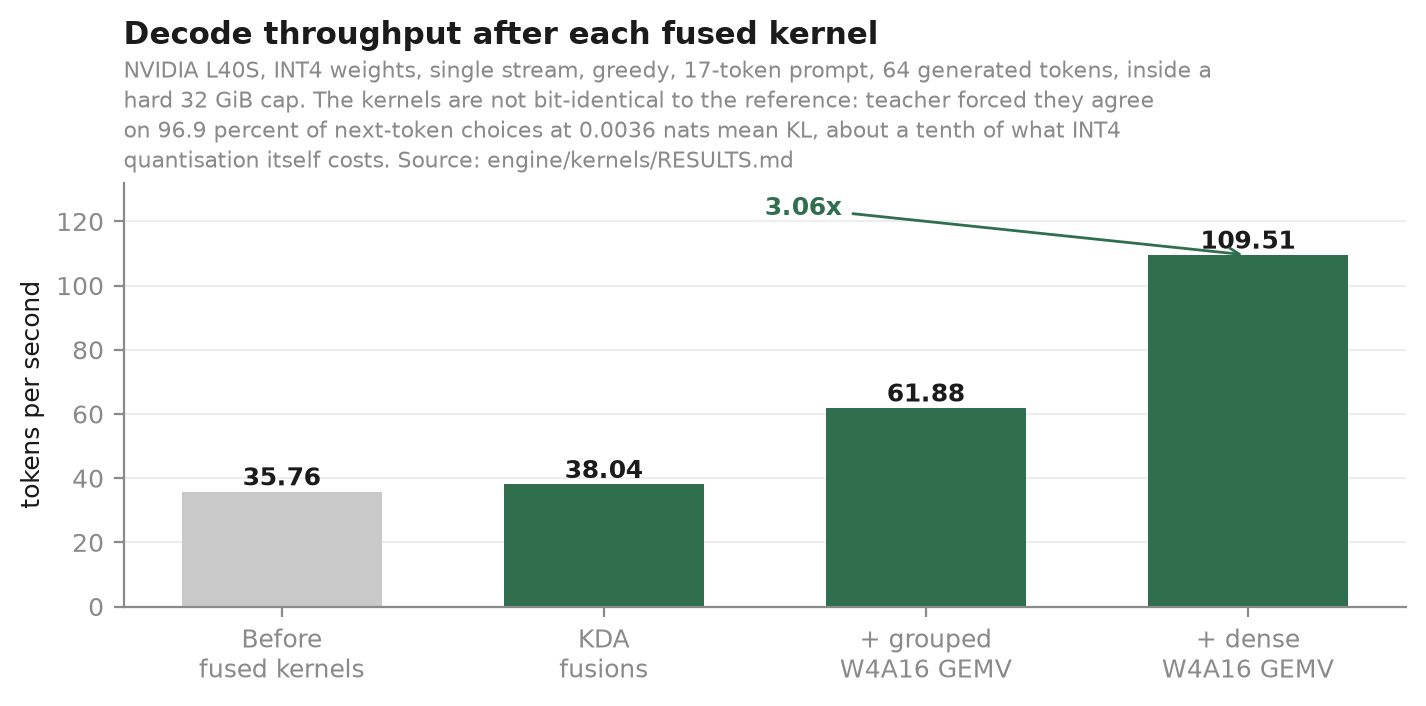
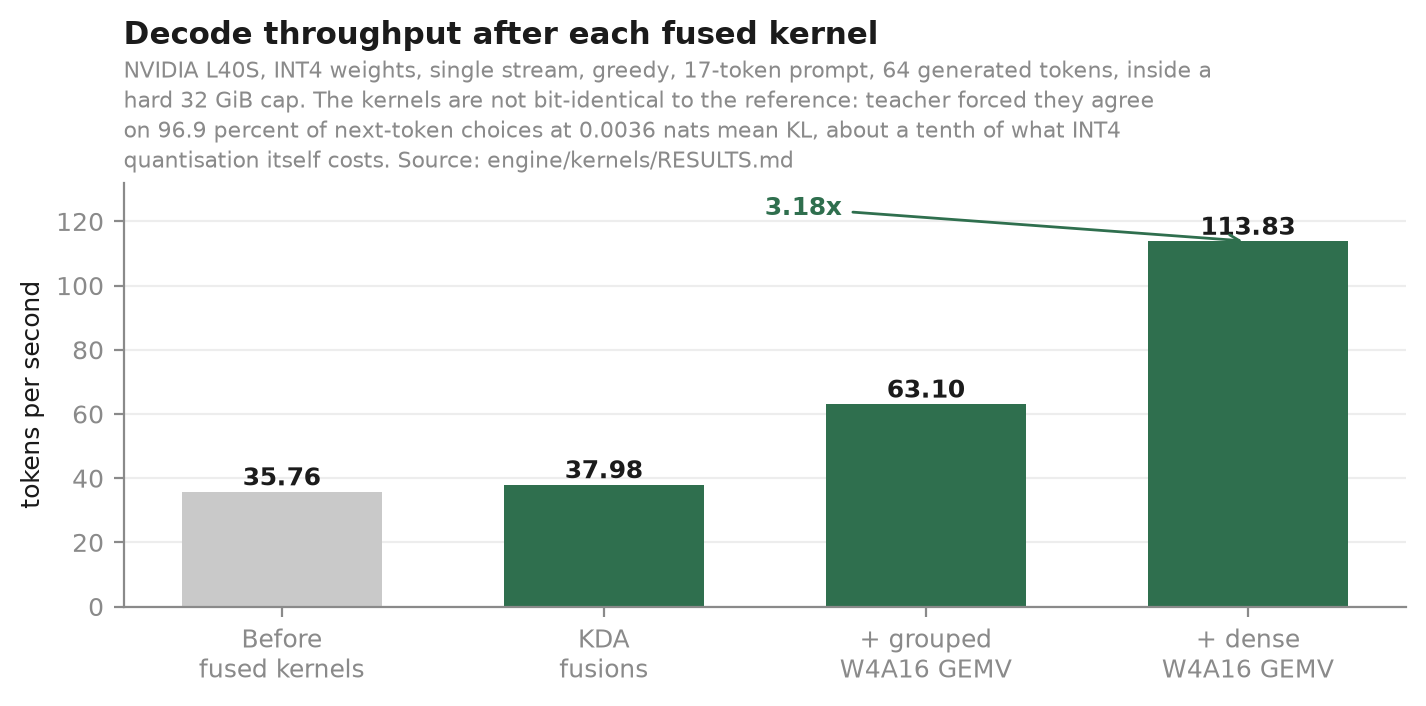
Reach 114 tokens per second and record the config sweep

Changed region(s): [[0.5554, 0.2805, 0.9565, 0.3739], [0.5863, 0.5297, 0.7097, 0.5921], [0.4011, 0.6544, 0.4628, 0.6856]]

diff --git a/scripts/make_figures.py b/scripts/make_figures.py
@@ -77,7 +77,7 @@ def decode_stages() -> None:
         "+ grouped\nW4A16 GEMV",
         "+ dense\nW4A16 GEMV",
     ]
-    values = [35.76, 38.04, 61.88, 109.51]
+    values = [35.76, 37.98, 63.10, 113.83]
     colors = [BASE, ACCENT, ACCENT, ACCENT]
 
     fig, ax = plt.subplots(figsize=(7.2, 3.6))
@@ -96,8 +96,8 @@ def decode_stages() -> None:
     ax.grid(axis="y", color="#ededed", linewidth=0.8)
     ax.set_axisbelow(True)
     ax.annotate(
-        "3.06x",
-        xy=(3, 109.51),
+        "3.18x",
+        xy=(3, 113.83),
         xytext=(1.5, 122.0),
         fontsize=9,
         color=ACCENT,
@@ -306,7 +306,7 @@ def memory_headroom() -> None:
         "The speedup gave memory back",
         "An earlier version of this figure said the opposite, because it was drawn before the "
         "fused kernels existed. The GEMV path allocates no per-call partial buffers, so peak "
-        "reserved memory fell by 1.93 GiB while throughput went up 3.06x. "
+        "reserved memory fell by 1.93 GiB while throughput went up 3.18x. "
         "Source: engine/kernels/RESULTS.md",
     )
     fig.tight_layout()

diff --git a/engine/kernels/RESULTS.md b/engine/kernels/RESULTS.md
@@ -40,30 +40,31 @@ which is 940 to 40 across the twenty KDA layers.
 
 ## End to end
 
-Greedy, one stream, 17-token prompt, 64 generated tokens, three repeats, median
-reported. Timings varied by under 0.05 ms across repeats.
+Greedy, one stream, 17-token prompt, 64 generated tokens, five repeats, median
+reported. Repeat timings varied by under 0.15 ms out of 560, and re-running the
+same configuration in the same container reproduced to 0.02 percent.
 
 | engine | tok/s | ms per token | against original |
 |---|---:|---:|---:|
 | original, before any of this work | 35.76 | 27.96 | 1.00x |
-| KDA fusions only | 38.04 | 26.29 | 1.06x |
-| KDA plus grouped GEMV | 61.88 | 16.16 | 1.73x |
-| **KDA plus grouped and dense GEMV** | **109.51** | **9.13** | **3.06x** |
+| KDA fusions only | 37.98 | 26.33 | 1.06x |
+| KDA plus grouped GEMV | 63.10 | 15.85 | 1.76x |
+| **KDA plus grouped and dense GEMV** | **113.83** | **8.78** | **3.18x** |
 
 Read the middle rows carefully. The KDA fusions are applied whenever the decode
 shape matches and are not switched by the W4A16 variant selector, so they are
 present in every row including the one labelled reference. That is why the
-baseline of the final sweep reads 38.04 rather than 35.76. The 3.06x figure is
+baseline of the final sweep reads 37.98 rather than 35.76. The 3.18x figure is
 against the original engine measured before any kernel in this directory
-existed; the same sweep read against its own baseline gives 2.88x.
+existed; the same sweep read against its own baseline gives 3.00x.
 
 The split by contribution, against the original 35.76:
 
 | change | tok/s after | share of the total gain |
 |---|---:|---:|
-| KDA preparation and recurrence fusion | 38.04 | 3% |
-| grouped W4A16 GEMV | 61.88 | 32% |
-| dense W4A16 GEMV | 109.51 | 65% |
+| KDA preparation and recurrence fusion | 37.98 | 3% |
+| grouped W4A16 GEMV | 63.10 | 32% |
+| dense W4A16 GEMV | 113.83 | 65% |
 
 Peak reserved memory fell from 29.56 GiB to 27.63 GiB, so the 32 GiB budget
 holds with more room than before rather than less.
@@ -89,8 +90,10 @@ produced at each step.
 | kernels | top-1 agreement | max absolute logit difference | mean KL |
 |---|---:|---:|---:|
 | reference against itself | 32/32, 100% | 0.00000 | 0.0 |
-| grouped GEMV | 30/32, 93.8% | 1.56250 | 3.50e-3 nats |
-| grouped and dense GEMV | 31/32, 96.9% | 1.52734 | 3.55e-3 nats |
+| grouped GEMV, earlier config | 30/32, 93.8% | 1.56250 | 3.50e-3 nats |
+| grouped and dense, earlier config | 31/32, 96.9% | 1.52734 | 3.55e-3 nats |
+| **shipped, `n128_k32_s4`** | **31/32, 96.9%** | **1.50000** | **3.62e-3 nats** |
+| the config it replaced | 31/32, 96.9% | 1.78125 | 6.73e-3 nats |
 
 For scale, `engine/accuracy/RESULTS.md` records that the INT4 quantisation
 itself costs 85.16 percent top-1 agreement and 0.0555 nats of mean KL against
@@ -99,6 +102,38 @@ divergence that quantising the model already introduced.
 
 That is the claim this work supports: the fused kernels are a much smaller
 perturbation than the quantisation already applied, not that they are exact.
+
+## Choosing the launch configuration by sweeping the engine
+
+After two tuning decisions won an isolated benchmark and lost in the engine, the
+grouped kernel's configuration was chosen differently: every candidate was
+registered as its own variant and swept inside one decode process, with the
+incumbent measured first and last to expose its own repeatability.
+
+| variant, one container, 5 repeats each | tok/s | output matches incumbent |
+|---|---:|:---:|
+| incumbent, branch on estimated wave count | 109.38 | reference |
+| pinned `n32_k64_s1` | 110.16 | yes |
+| pinned `n64_k64_s1` | 103.67 | yes |
+| pinned `n64_k64_s2` | 112.68 | no |
+| **pinned `n128_k32_s4`** | **113.43** | no |
+| pinned `n32_k128_s1` | 112.97 | no |
+| incumbent again | 109.37 | yes |
+
+The incumbent reproduces to 0.01 percent, so a 3.7 percent gap is real. The
+incumbent branched on an estimate of how many waves the grid would fill, which
+was never tested; one configuration for every shape beats it.
+
+The three fastest change the output, because split-K and a different K block
+change the order of the reduction. That is not disqualifying on its own, since
+none of these kernels is bit-identical to the reference anyway, but it does mean
+the winner needed its own equivalence measurement rather than an assumption.
+That measurement came out in its favour: the same 31 of 32 top-1 choices, with
+mean KL falling from 6.73e-3 to 3.62e-3 and the largest logit difference from
+1.78 to 1.50. It is both faster and closer to the reference.
+
+Confirmed after adopting it as the default: 113.83 tok/s in the ladder above,
+and 114.01 then 114.03 in a separate two-run check.
 
 ## Two fusions that were built, measured, and left switched off
 

diff --git a/README.md b/README.md
@@ -51,10 +51,10 @@ The serve flags above are defined in [`k3/cli.py`](k3/cli.py). See the [full qui
 
 - `k3` added **0.231 ms per request** in a local CPU-only ASGI benchmark that sent the same request directly to a stub backend and through the proxy. The benchmark used no socket or network. The host hardware was not recorded, so this number describes that run rather than a portable latency guarantee.
 - The selective INT4 artifact is **28,803,304,448 bytes**, which is **3.41x smaller** than the **98,245,528,576-byte BF16 source tensor storage**. It was built and verified from the real checkpoint on one NVIDIA H100. See [`engine/quant/QUANTIZATION-RESULTS.md`](engine/quant/QUANTIZATION-RESULTS.md).
-- The engine decodes at **109.51 tokens per second** on one NVIDIA L40S, up from **35.76** before the fused kernels, a **3.06x** gain. The run used one stream, a 17-token prompt, 64 generated tokens, greedy decoding, three repeats, and a hard 32 GiB process cap. Peak reserved memory fell from 29.56 GiB to 27.63 GiB. See [`engine/kernels/RESULTS.md`](engine/kernels/RESULTS.md) for the kernel-by-kernel breakdown and [`engine/klinear/DECODE-PROFILE.md`](engine/klinear/DECODE-PROFILE.md) for the profile that found the bottleneck.
+- The engine decodes at **113.83 tokens per second** on one NVIDIA L40S, up from **35.76** before the fused kernels, a **3.18x** gain. The run used one stream, a 17-token prompt, 64 generated tokens, greedy decoding, five repeats, and a hard 32 GiB process cap. Peak reserved memory fell from 29.56 GiB to 27.63 GiB. See [`engine/kernels/RESULTS.md`](engine/kernels/RESULTS.md) for the kernel-by-kernel breakdown and [`engine/klinear/DECODE-PROFILE.md`](engine/klinear/DECODE-PROFILE.md) for the profile that found the bottleneck.
 - The fused kernels are **not bit-identical** to the reference path. Teacher-forced against the same token sequence they agree on **96.9%** of next-token choices with a mean KL of **0.0036 nats**. For scale, quantising the model to INT4 in the first place costs 85.16% agreement and 0.0555 nats, so the kernels are about a tenth of the divergence quantisation already introduced. Free-running greedy decode matches for roughly 24 tokens and then splits, which is what a different reduction order does once an argmax flips.
 
-The **109.51 tokens per second** L40S engine result and llama.cpp's reported **roughly 32 tokens per second** on an RTX 3090 are not a comparison. The hardware and harnesses differ.
+The **113.83 tokens per second** L40S engine result and llama.cpp's reported **roughly 32 tokens per second** on an RTX 3090 are not a comparison. The hardware and harnesses differ.
 
 The INT4 artifact is not equivalent in quality to the BF16 source. [`engine/accuracy/RESULTS.md`](engine/accuracy/RESULTS.md) records the measured difference.
 
